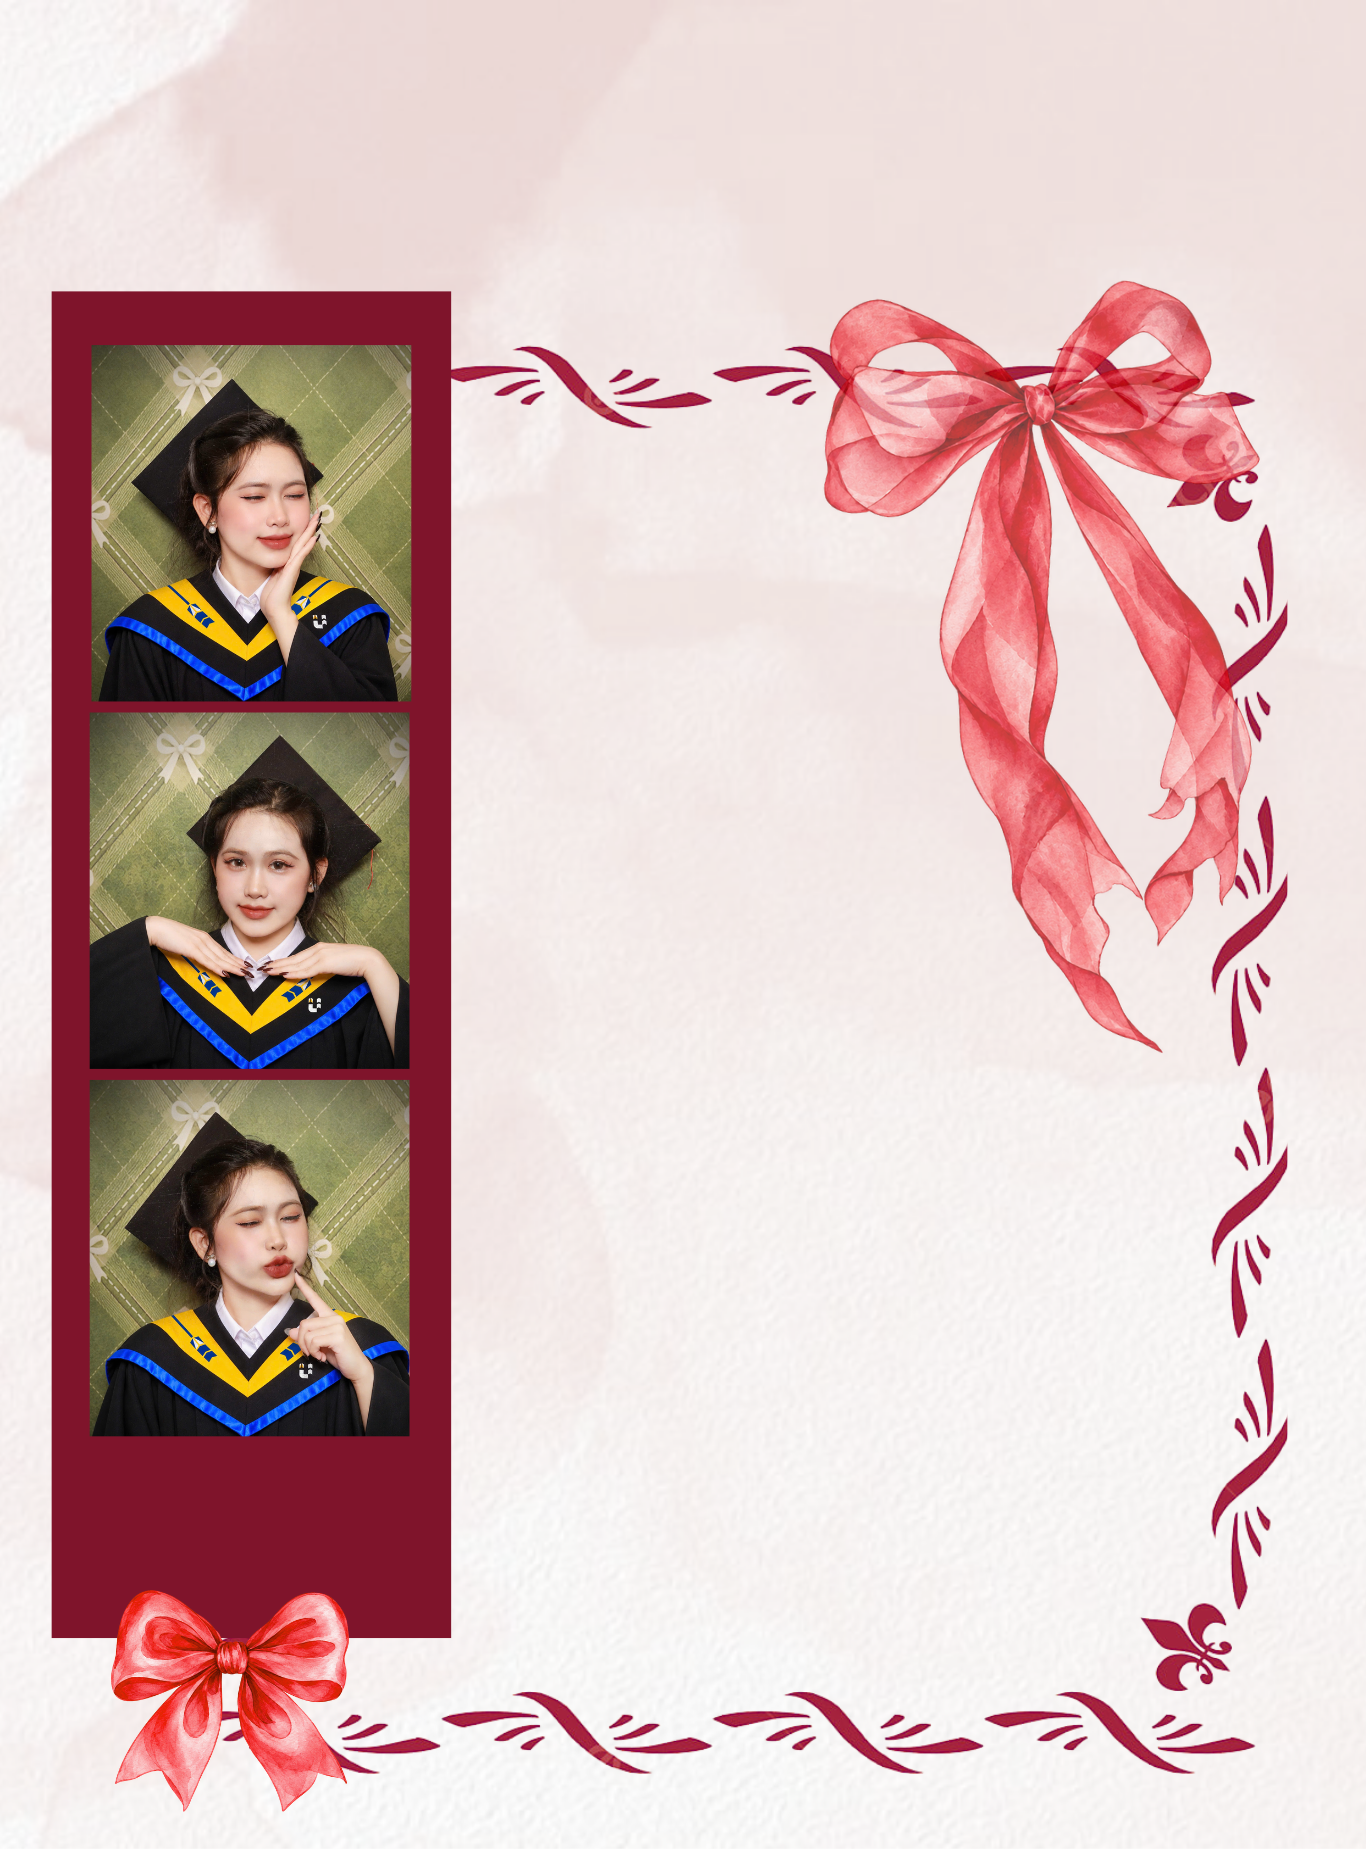
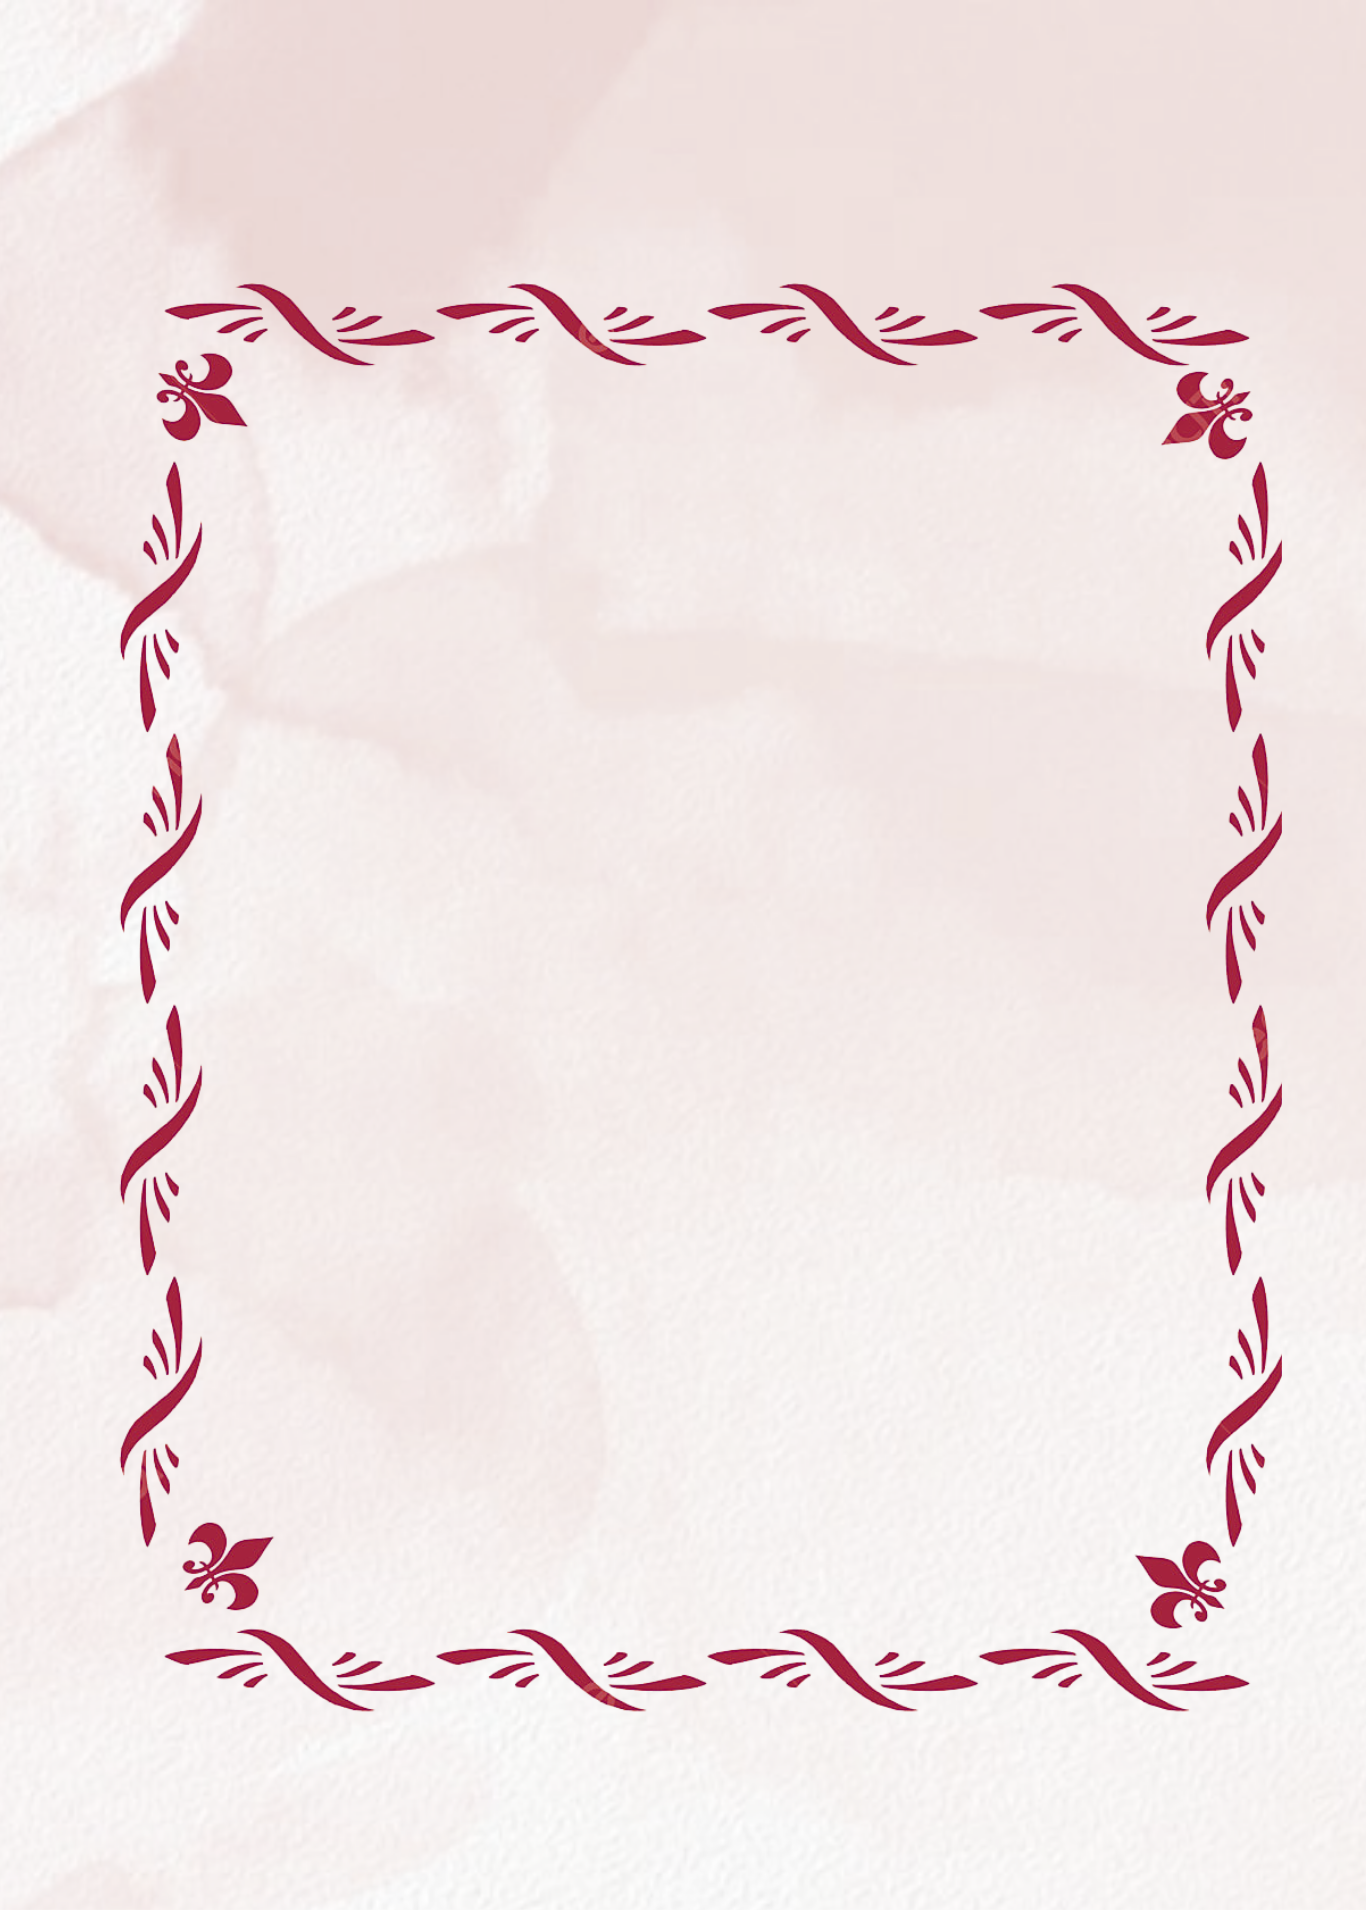
ban29

diff --git a/src/Page/Page2.tsx b/src/Page/Page2.tsx
@@ -1,10 +1,11 @@
 
 import { useEffect, useRef, useState } from "react";
-import background from "../assets/backgourg1.png";
+import background from "../assets/backgourg6.png";
 import anh1 from "../assets/anh1.jpg";
 import anh2 from "../assets/anh2.jpg";
 import anh3 from "../assets/anh3.jpg";
 import noDo from "../assets/backgourg7.png";
+import noDoTop from "../assets/backgourg8.png";
 
 function Page2() {
   const pageRef = useRef<HTMLDivElement>(null);
@@ -45,7 +46,7 @@ function Page2() {
         overflow: "hidden",
       }}
     >
-      {/* Background bay từ dưới lên kết hợp zoom nhẹ */}
+      {/* BACKGROUND */}
       <div
         style={{
           position: "absolute",
@@ -64,6 +65,28 @@ function Page2() {
         }}
       />
 
+      {/* NƠ ĐỎ MỚI - GÓC TRÊN BÊN PHẢI */}
+      <img
+        src={noDoTop}
+        alt="Nơ đỏ góc trên"
+        style={{
+          position: "absolute",
+          top: "55px",
+          right: "-27px",
+          width: "180px",
+          height: "auto",
+          objectFit: "contain",
+          zIndex: 4,
+          pointerEvents: "none",
+          opacity: visible ? 1 : 0,
+          transform: visible
+            ? "translateY(0)"
+            : "translateY(-25px)",
+          transition:
+            "opacity 1.5s ease 0.8s, transform 1.5s ease 0.8s",
+        }}
+      />
+
       <div
         style={{
           width: "100%",
@@ -79,7 +102,7 @@ function Page2() {
           zIndex: 2,
         }}
       >
-        {/* Tiêu đề */}
+        {/* TIÊU ĐỀ */}
         <h1
           style={{
             width: "100%",
@@ -148,7 +171,7 @@ function Page2() {
           </style>
         </h1>
 
-        {/* Nội dung dành cho những người bạn thân */}
+        {/* NỘI DUNG */}
         <div
           style={{
             display: "flex",
@@ -198,10 +221,10 @@ function Page2() {
               />
             ))}
 
-            {/* NƠ Ở ĐÁY KHUNG 3 ẢNH */}
+            {/* NƠ CŨ Ở ĐÁY KHUNG 3 ẢNH */}
             <img
               src={noDo}
-              alt="Nơ trang trí"
+              alt="Nơ trang trí phía dưới"
               style={{
                 position: "absolute",
                 bottom: "-30px",
@@ -222,14 +245,14 @@ function Page2() {
               width: "55%",
               maxWidth: "285px",
               marginLeft: "135px",
-              marginTop: "-8px",
+              marginTop: "5px",
               padding: "20px 8px",
               boxSizing: "border-box",
               minWidth: 0,
               color: "#4A1728",
               fontFamily: '"Times New Roman", Times, serif',
               fontSize: "clamp(12px, 3.2vw, 13px)",
-              lineHeight: 1.25,
+              lineHeight: 1.0,
               textAlign: "justify",
               opacity: visible ? 1 : 0,
               animation: visible
@@ -241,6 +264,7 @@ function Page2() {
               style={{
                 textIndent: "18px",
                 margin: "0 0 12px",
+                width: "70%",
               }}
             >
               Một hành trình tại IUH đã khép lại, mang theo những tháng ngày

diff --git a/src/Page/Page4.tsx b/src/Page/Page4.tsx
@@ -39,7 +39,7 @@ function Page4() {
         <p
           style={{
             fontSize: "13px",
-            lineHeight: 1.7,
+            lineHeight: 1.2,
             marginBottom: "16px",
             textIndent: "20px",
           }}
@@ -52,7 +52,7 @@ function Page4() {
         <p
           style={{
             fontSize: "13px",
-            lineHeight: 1.7,
+            lineHeight: 1.2,
             marginBottom: "16px",
             textIndent: "20px",
           }}
@@ -68,7 +68,7 @@ function Page4() {
         <p
           style={{
             fontSize: "13px",
-            lineHeight: 1.7,
+            lineHeight: 1.2,
             marginBottom: "16px",
             textIndent: "20px",
           }}
@@ -82,7 +82,7 @@ function Page4() {
         <p
           style={{
             fontSize: "13px",
-            lineHeight: 1.7,
+            lineHeight: 1.2,
             marginBottom: "16px",
             textIndent: "20px",
           }}
